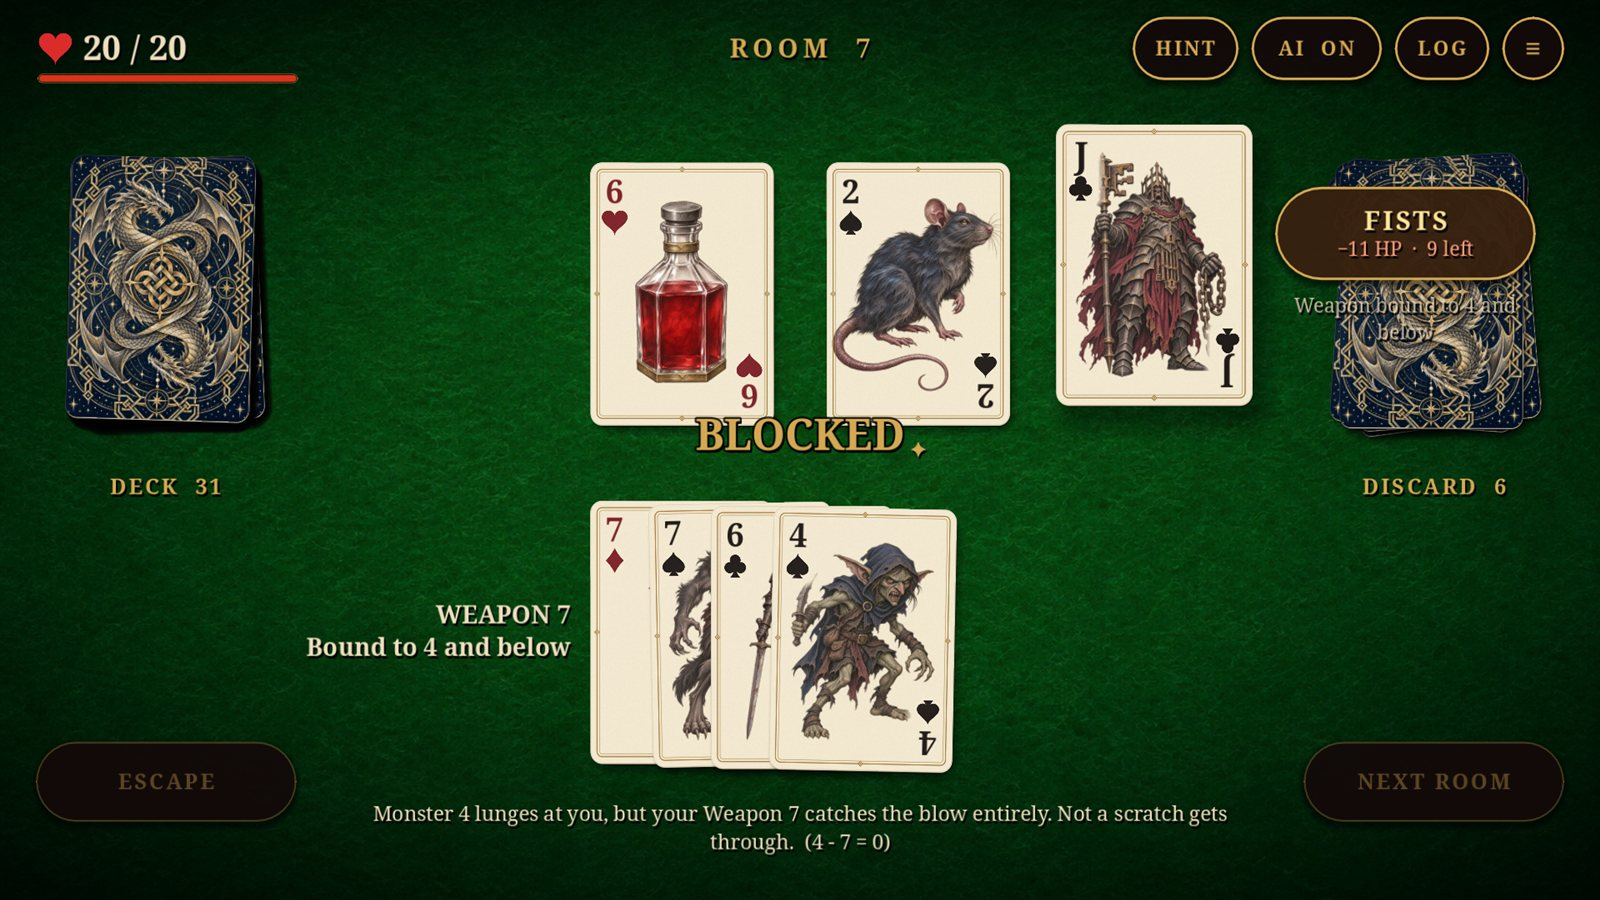
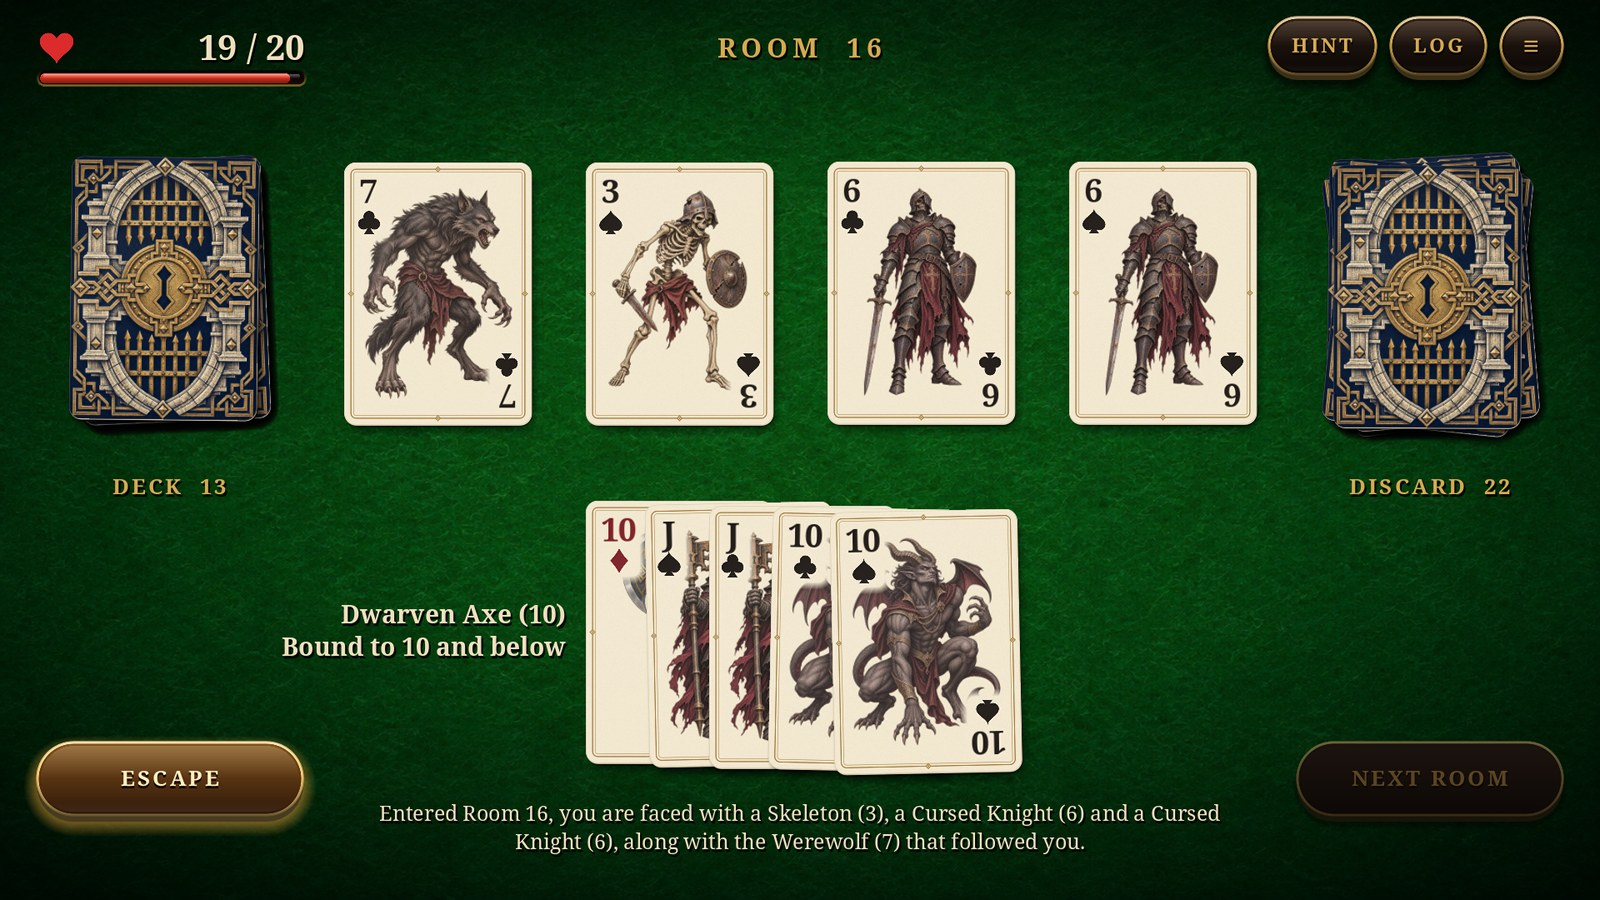
Monster Bound: new screenshots, privacy policy, coming soon to Google Play

diff --git a/monster-bound/index.html b/monster-bound/index.html
@@ -4,10 +4,10 @@
   <meta charset="utf-8">
   <meta name="viewport" content="width=device-width, initial-scale=1">
   <title>Monster Bound · Pixel Gambit</title>
-  <meta name="description" content="Monster Bound is a roguelike card crawl through a 44-card dungeon. Fight monsters, bind weapons and ration your potions, one room at a time. Opening to testers soon.">
+  <meta name="description" content="Monster Bound is a roguelike card crawl through a 44-card dungeon. Fight monsters, bind weapons and ration your potions, one room at a time. Coming soon to Google Play.">
   <meta property="og:title" content="Monster Bound: a roguelike card crawl">
-  <meta property="og:description" content="A roguelike card crawl through a 44-card dungeon. Opening to testers soon.">
-  <meta property="og:image" content="https://pixelgambit.github.io/assets/monster-bound/choose-a-move.jpg">
+  <meta property="og:description" content="A roguelike card crawl through a 44-card dungeon. Coming soon to Google Play.">
+  <meta property="og:image" content="https://pixelgambit.github.io/assets/monster-bound/boss-weapon-or-fists.jpg">
   <link rel="icon" href="../assets/monster-bound/icon.png">
   <link rel="stylesheet" href="../style.css">
 </head>
@@ -15,7 +15,7 @@
   <header class="site">
     <div class="wrap">
       <a class="brand" href="../"><span class="brand-mark">PG</span>Pixel Gambit</a>
-      <nav><a href="../">Apps</a><a href="#look">Screenshots</a><a href="#test">Test</a></nav>
+      <nav><a href="../">Apps</a><a href="#look">Screenshots</a><a href="privacy/">Privacy</a></nav>
     </div>
   </header>
 
@@ -25,7 +25,7 @@
         <img src="../assets/monster-bound/icon.png" alt="Monster Bound icon">
         <div>
           <h1>Monster Bound</h1>
-          <div class="tags"><span class="tag">Android</span><span class="tag">Card game</span><span class="tag">Testers soon</span></div>
+          <div class="tags"><span class="tag">Android</span><span class="tag">Card game</span><span class="tag">Coming soon</span></div>
         </div>
       </div>
       <p class="lede">A roguelike card crawl through a 44-card dungeon. Every room deals you four cards: monsters to fight, weapons to bind and potions to drink. Choose the order well, because the deck does not forgive.</p>
@@ -34,14 +34,14 @@
         <a class="btn" href="#look">See screenshots</a>
       </div>
 
-      <img class="hero-shot" src="../assets/monster-bound/choose-a-move.jpg" alt="A room of four cards on green felt: an Ace dragon lifted, with the choice to fight it bare-handed">
+      <img class="hero-shot" src="../assets/monster-bound/boss-weapon-or-fists.jpg" alt="A Crypt Warden lifted from a room on green felt, with the choice of weapon or fists and the health each leaves">
 
       <h2>At a glance</h2>
       <div class="facts">
         <div class="card"><strong>Quick runs</strong><p>One deck, one life. A run takes a few minutes, win or lose.</p></div>
         <div class="card"><strong>Easy to learn</strong><p>Four cards a room and a handful of rules. The depth is in the choices.</p></div>
-        <div class="card"><strong>Hand-illustrated</strong><p>The Ivory Codex: a full deck of illustrated monsters, weapons and potions.</p></div>
-        <div class="card"><strong>Daily Dungeon</strong><p>The same shuffle for everyone, once a day.</p></div>
+        <div class="card"><strong>Two decks</strong><p>The hand-illustrated Ivory Codex, or Classic: real playing cards.</p></div>
+        <div class="card"><strong>Free, no ads</strong><p>No account, no tracking, nothing to buy. It works offline.</p></div>
       </div>
 
       <h2>How a run works</h2>
@@ -54,34 +54,39 @@
           <tr><td>Potions</td><td>Hearts</td><td>Heal you, up to 20. Only one potion works per room, so a second is simply thrown away.</td></tr>
         </table>
       </div>
-      <p>Don't like a room? Escape it, and its cards go to the bottom of the deck. You can't escape two rooms in a row, so pick your moment. Clear the whole deck to win. Your score counts what is left of you, or what is left of the dungeon.</p>
+      <p>Don't like a room? Escape it before you touch a card, and its cards go to the bottom of the deck. You can't escape two rooms in a row, so pick your moment. Clear the whole deck to win. Your score counts what is left of you, or what is left of the dungeon.</p>
 
       <h2 id="look">A look inside</h2>
       <div class="gallery">
-        <figure><img src="../assets/monster-bound/title.jpg" alt="The title screen: a fan of five Ivory Codex cards over the Monster Bound name" loading="lazy"><figcaption>The title screen</figcaption></figure>
-        <figure><img src="../assets/monster-bound/room.jpg" alt="A full room on green felt: a potion, a Queen, a werewolf and a dagger, with a bound weapon below" loading="lazy"><figcaption>A new room: four cards, deal with three</figcaption></figure>
-        <figure><img src="../assets/monster-bound/weapon-or-fists.jpg" alt="A King lifted, with the choice of weapon or fists and the health each leaves" loading="lazy"><figcaption>Weapon or fists: every choice shows what it will cost</figcaption></figure>
-        <figure><img src="../assets/monster-bound/bound-weapon.jpg" alt="A weapon with the monsters it has beaten fanned behind it" loading="lazy"><figcaption>A bound weapon carries the monsters it has beaten</figcaption></figure>
-        <figure><img src="../assets/monster-bound/deck-window.jpg" alt="The deck window, listing every monster still to come, sorted by rank" loading="lazy"><figcaption>Tap the deck to see what is still to come</figcaption></figure>
-        <figure><img src="../assets/monster-bound/card-viewer.jpg" alt="A potion card shown full screen in the card viewer" loading="lazy"><figcaption>Tap any card to see its art up close</figcaption></figure>
+        <figure><img src="../assets/monster-bound/room-of-four.jpg" alt="A room of four Ivory Codex cards on green felt: a Queen Vampire, a Goblin, a warhammer and a potion" loading="lazy"><figcaption>A new room: four cards, deal with three</figcaption></figure>
+        <figure><img src="../assets/monster-bound/classic-deck.jpg" alt="The same room with the Classic deck: real playing cards on green felt" loading="lazy"><figcaption>The Classic deck: real playing cards</figcaption></figure>
+        <figure><img src="../assets/monster-bound/card-viewer.jpg" alt="The Lich King shown large in the card viewer, with its name and class" loading="lazy"><figcaption>Tap the eye to see any card up close</figcaption></figure>
+        <figure><img src="../assets/monster-bound/bound-weapon.jpg" alt="A Dwarven Axe with four beaten monsters fanned behind it" loading="lazy"><figcaption>A bound weapon carries the monsters it has beaten</figcaption></figure>
+        <figure><img src="../assets/monster-bound/cave-rooms.jpg" alt="A room deep in the caves, the rock walls dark behind the cards" loading="lazy"><figcaption>Cave Rooms: the deeper you go, the darker it gets</figcaption></figure>
+        <figure><img src="../assets/monster-bound/victory.jpg" alt="VICTORY over the table, with a burst of gold suit symbols" loading="lazy"><figcaption>All 44 cards cleared</figcaption></figure>
+        <figure><img src="../assets/monster-bound/run-report.jpg" alt="The run report: the result, how it ended and health through the run" loading="lazy"><figcaption>A report on every run</figcaption></figure>
+        <figure><img src="../assets/monster-bound/title.jpg" alt="The title screen: a fan of five Ivory Codex bosses over the Monster Bound name" loading="lazy"><figcaption>The title screen</figcaption></figure>
       </div>
 
-      <h2>Made for your phone</h2>
+      <h2>What's in it</h2>
       <ul class="features">
-        <li><strong>Landscape and touch first.</strong> Every button is sized for a thumb and nothing needs a long press.</li>
-        <li><strong>A real table.</strong> Cards are shuffled, dealt and played like physical cards, with sound and a little shake when a blow lands.</li>
-        <li><strong>Pick your table.</strong> Play by torchlight in the caves, or on felt, wood, stone or leather.</li>
+        <li><strong>Two decks.</strong> The Ivory Codex: illustrated monsters from the Dungeon Rat to the Abyssal Dragon, weapons and potions, with four card backs. Classic: real playing cards with blue and red backs.</li>
+        <li><strong>A real table.</strong> Cards are shuffled, dealt and played like physical cards, with sound, a shake when a blow lands and a buzz in your hand.</li>
+        <li><strong>Pick your table.</strong> Green felt, dark wood, the cave rooms, or cloth, wood, stone and leather.</li>
+        <li><strong>Every choice shows its cost.</strong> Lift a card and it tells you the health each move leaves you, or warns you it would be fatal.</li>
+        <li><strong>See the dungeon.</strong> Tap the deck to see every card still to come, or the discard pile to see what is gone.</li>
         <li><strong>Hints when you want them.</strong> Ask for the best move and the reason for it, or switch on short tips the first time each situation comes up.</li>
-        <li><strong>Records</strong> of your best runs, plus a history of recent ones.</li>
+        <li><strong>A report on every run.</strong> How it ended, your health room by room, every monster and what killed it. Records keep your bests, your totals and your nemesis.</li>
         <li><strong>Pick up where you left off.</strong> A run in progress is saved as you play.</li>
+        <li><strong>Made for your phone.</strong> Landscape and touch first, sized for a thumb, from wide phones to tablets.</li>
       </ul>
 
-      <h2 id="test">Testing</h2>
+      <h2 id="get">Get it</h2>
       <div class="note">
-        <p><strong>Monster Bound will open to testers soon.</strong></p>
+        <p><strong>Monster Bound is coming soon to Google Play.</strong></p>
       </div>
 
-      <p class="credit">Monster Bound is inspired by <em>Scoundrel</em>, a solo card game by Zach Gage and Kurt Bieg.</p>
+      <p class="credit">Monster Bound is inspired by <em>Scoundrel</em>, a solo card game by Zach Gage and Kurt Bieg. <a href="privacy/">Privacy policy</a>.</p>
     </div>
   </main>
 

diff --git a/monster-bound/privacy/index.html b/monster-bound/privacy/index.html
@@ -1,0 +1,43 @@
+<!doctype html>
+<html lang="en">
+<head>
+  <meta charset="utf-8">
+  <meta name="viewport" content="width=device-width, initial-scale=1">
+  <title>Monster Bound Privacy Policy</title>
+  <meta name="description" content="Privacy policy for Monster Bound, by Pixel Gambit.">
+  <link rel="icon" href="../../assets/monster-bound/icon.png">
+  <link rel="stylesheet" href="../../style.css">
+</head>
+<body>
+  <header class="site">
+    <div class="wrap">
+      <a class="brand" href="../../"><span class="brand-mark">PG</span>Pixel Gambit</a>
+      <nav><a href="../../">Apps</a><a href="../">Monster Bound</a></nav>
+    </div>
+  </header>
+  <main>
+    <div class="wrap prose">
+      <h1>Monster Bound privacy policy</h1>
+      <p>Last updated November 2026.</p>
+      <p>Monster Bound is a card game for Android, published by pixelgambit.</p>
+      <h2>What Monster Bound stores</h2>
+      <p>Your run in progress, your settings, your records and the reports of your recent runs. All of it is written to storage on this phone and nowhere else.</p>
+      <h2>What Monster Bound sends</h2>
+      <p>Nothing. There is no account to make, no server to sign in to, and no analytics, advertising or tracking code in the game. Monster Bound does not ask for internet access, so your data cannot leave this phone.</p>
+      <h2>Tips</h2>
+      <p>Tip with PayPal in Settings asks first, then opens a PayPal page in your browser. Monster Bound sends nothing with it, and never learns whether you tipped. A tip unlocks nothing in the game. Anything you do on that page is between you and PayPal, under their privacy policy.</p>
+      <h2>Permissions</h2>
+      <p>Monster Bound asks for one permission: to vibrate, so you can feel a blow land. You can switch vibration off in Settings.</p>
+      <h2>Deleting your data</h2>
+      <p>Uninstalling Monster Bound removes everything it has stored. Clearing the app's storage in Android's settings does the same without uninstalling it.</p>
+      <h2>Children</h2>
+      <p>Monster Bound collects no personal information from anyone, including children.</p>
+      <h2>Changes and contact</h2>
+      <p>If this policy changes, the date on it changes with it. Questions about this policy can go to <a href="mailto:ericdekock@gmail.com">ericdekock@gmail.com</a>.</p>
+    </div>
+  </main>
+  <footer class="site">
+    <div class="wrap"><span>© 2026 Pixel Gambit</span><a href="../">Back to Monster Bound</a></div>
+  </footer>
+</body>
+</html>

diff --git a/index.html b/index.html
@@ -37,7 +37,7 @@
           <div>
             <h3>Monster Bound</h3>
             <p>A roguelike card crawl through a 44-card dungeon. Fight, bind weapons and ration your potions.</p>
-            <div class="tags"><span class="tag">Android</span><span class="tag">Card game</span><span class="tag">Testers soon</span></div>
+            <div class="tags"><span class="tag">Android</span><span class="tag">Card game</span><span class="tag">Coming soon</span></div>
           </div>
         </a>
       </div>
